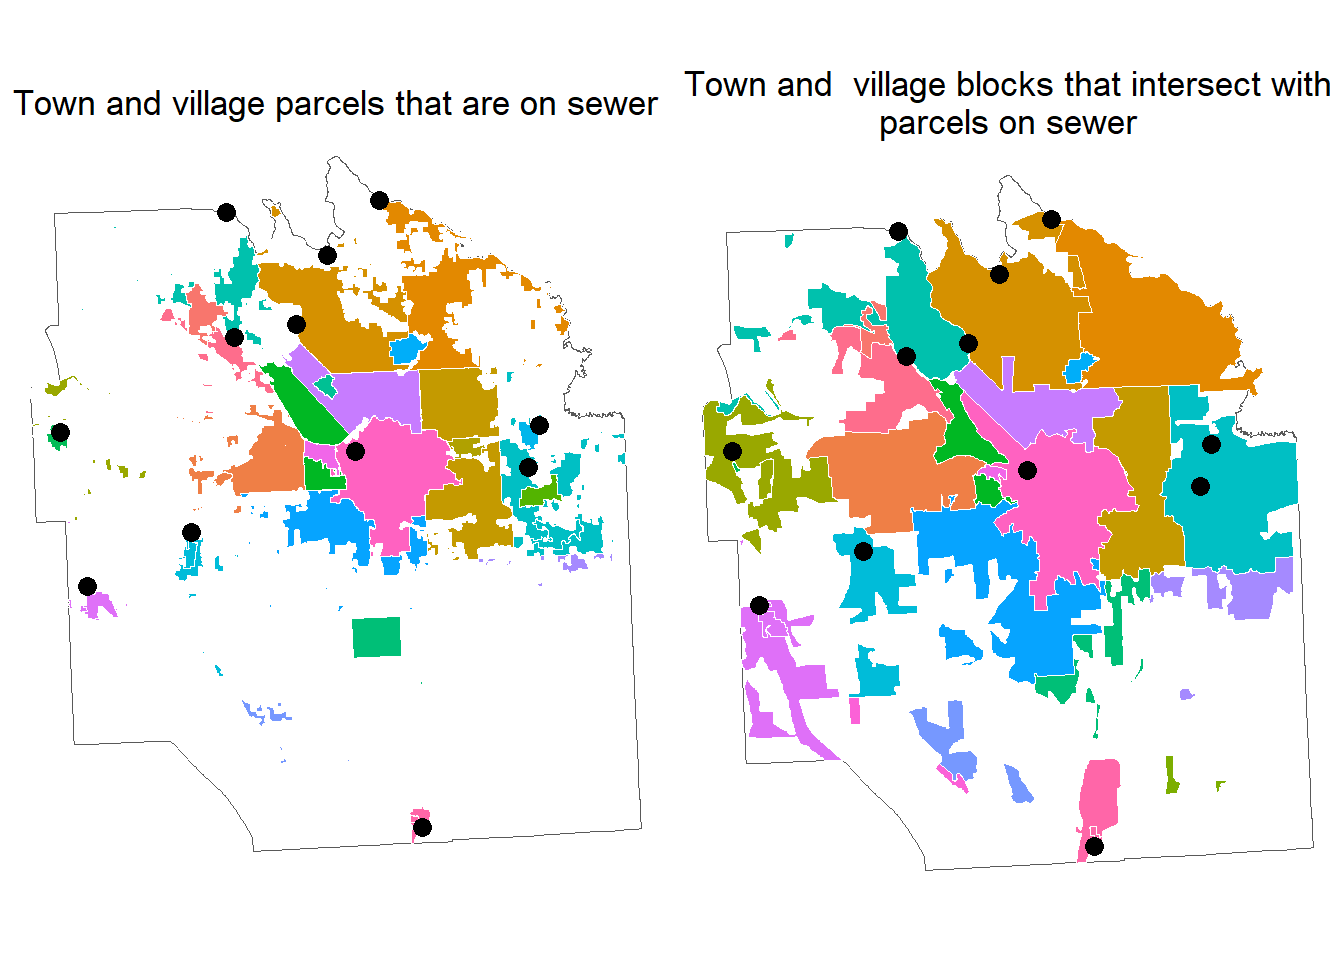
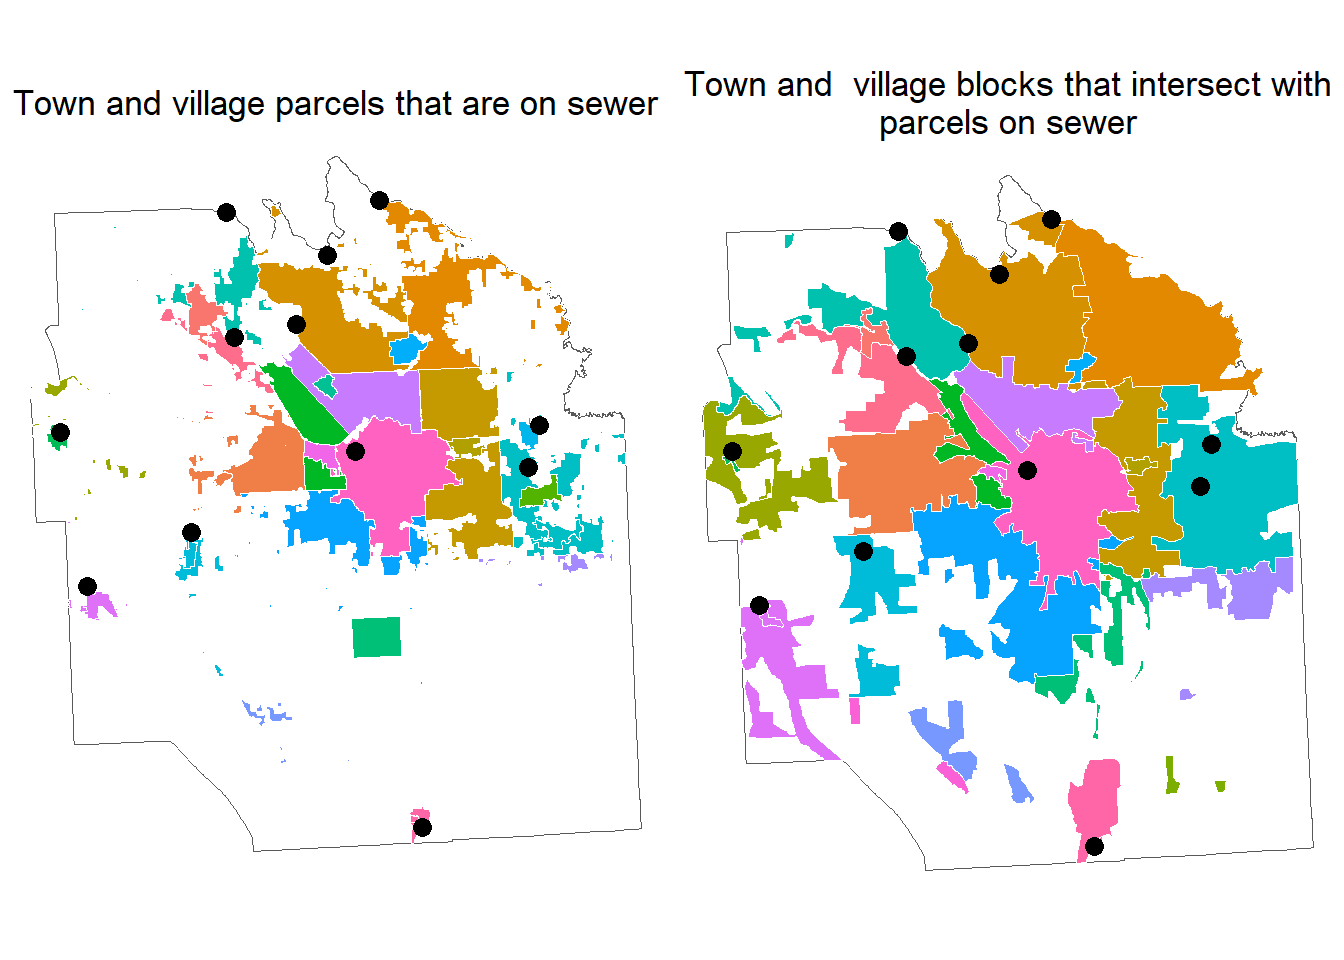
update docs

diff --git a/docs/system-design-for-outbreak-detection.html b/docs/system-design-for-outbreak-detection.html
@@ -6,7 +6,7 @@
   <meta http-equiv="X-UA-Compatible" content="IE=edge" />
   <title>Chapter 6 System design for outbreak detection | Systems Design for Wastewater Surveillance: Information Guide and Training Resources</title>
   <meta name="description" content="This is a training guide for wastewater surveillance systems design." />
-  <meta name="generator" content="bookdown 0.42 and GitBook 2.6.7" />
+  <meta name="generator" content="bookdown 0.48 and GitBook 2.6.7" />
 
   <meta property="og:title" content="Chapter 6 System design for outbreak detection | Systems Design for Wastewater Surveillance: Information Guide and Training Resources" />
   <meta property="og:type" content="book" />
@@ -23,7 +23,7 @@
 <meta name="author" content="Dustin T. Hill, Shaz Damani, David A. Larsen, and contributions from the New York State Wastewater Surveillance Program" />
 
 
-<meta name="date" content="2025-05-12" />
+<meta name="date" content="2026-11-23" />
 
   <meta name="viewport" content="width=device-width, initial-scale=1" />
   <meta name="apple-mobile-web-app-capable" content="yes" />
@@ -55,6 +55,7 @@
 
 
 <style type="text/css">
+html { -webkit-text-size-adjust: 100%; }
 pre > code.sourceCode { white-space: pre; position: relative; }
 pre > code.sourceCode > span { display: inline-block; line-height: 1.25; }
 pre > code.sourceCode > span:empty { height: 1.2em; }
@@ -245,17 +246,13 @@ Figure 6.1: The domains of disease surveillance. Wastewater surveillance fits in
 </p>
 </div>
 <p>Probability of detecting a disease is dependent on the sensitivity of detection for that specific disease (Equation 6.1) and also on the coverage of the population by the surveillance system (Equation 6.2) (Cameron et al. 2020).</p>
-<p><a href="system-design-for-outbreak-detection.html#eq:ncrep">(6.1)</a></p>
 <p><span class="math display" id="eq:ncrep">\[\begin{equation}
-\ Probability(at \ least \ one \ detected) = 1 – (1 – Sensitivity \ of \ detection)^n
-    \tag{6.1}
-
+\text{Probability(at least one detected)} = 1 - (1 - \text{Sensitivity of detection})^n
+\tag{6.1}
 \end{equation}\]</span></p>
-<p><a href="system-design-for-outbreak-detection.html#eq:ncrep">(6.1)</a></p>
-<p><span class="math display" id="eq:ncrep">\[\begin{equation}
-\ EDSSe = population \ coverage * temporal \ coverage * Sensitivity \ of \ detection
-    \tag{6.1}
-
+<p><span class="math display" id="eq:edsse">\[\begin{equation}
+\text{EDSSe} = \text{population coverage} \times \text{temporal coverage} \times \text{Sensitivity of detection}
+\tag{6.2}
 \end{equation}\]</span></p>
 <p>It is important to know that wastewater surveillance has limitations and will not detect the spillover event (e.g., the introduction of a new pathogen from one population to another). As an outbreak spreads, the sensitivity of detecting the outbreak increases exponentially as infection counts increase. Wastewater surveillance has a high population coverage within treatment plant catchment areas because urban areas are more likely to be served by public sewer systems. Frequent wastewater surveillance (e.g., once per week) has high temporal coverage. Also, remember, sensitivity will always be pathogen specific.</p>
 </div>
@@ -330,42 +327,42 @@ Figure 6.3: A) Sensitivity to detect a single poliovirus infection at one treatm
 <script>
 gitbook.require(["gitbook"], function(gitbook) {
 gitbook.start({
-"sharing": {
-"github": false,
-"facebook": true,
-"twitter": true,
-"linkedin": false,
-"weibo": false,
-"instapaper": false,
-"vk": false,
-"whatsapp": false,
-"all": ["facebook", "twitter", "linkedin", "weibo", "instapaper"]
-},
-"fontsettings": {
-"theme": "white",
-"family": "sans",
-"size": 2
-},
-"edit": {
-"link": "https://github.com/USERNAME/REPO/edit/BRANCH/05-system-design-for-outbreak-detection.Rmd",
-"text": "Edit"
-},
-"history": {
-"link": null,
-"text": null
-},
-"view": {
-"link": null,
-"text": null
-},
-"download": ["_main.pdf", "_main.epub"],
-"search": {
-"engine": "fuse",
-"options": null
-},
-"toc": {
-"collapse": "subsection"
-}
+  "sharing": {
+    "github": false,
+    "facebook": true,
+    "twitter": true,
+    "linkedin": false,
+    "weibo": false,
+    "instapaper": false,
+    "vk": false,
+    "whatsapp": false,
+    "all": ["facebook", "twitter", "linkedin", "weibo", "instapaper"]
+  },
+  "fontsettings": {
+    "theme": "white",
+    "family": "sans",
+    "size": 2
+  },
+  "edit": {
+    "link": "https://github.com/USERNAME/REPO/edit/BRANCH/05-system-design-for-outbreak-detection.Rmd",
+    "text": "Edit"
+  },
+  "history": {
+    "link": null,
+    "text": null
+  },
+  "view": {
+    "link": null,
+    "text": null
+  },
+  "download": ["_main.pdf", "_main.epub"],
+  "search": {
+    "engine": "fuse",
+    "options": null
+  },
+  "toc": {
+    "collapse": "subsection"
+  }
 });
 });
 </script>
